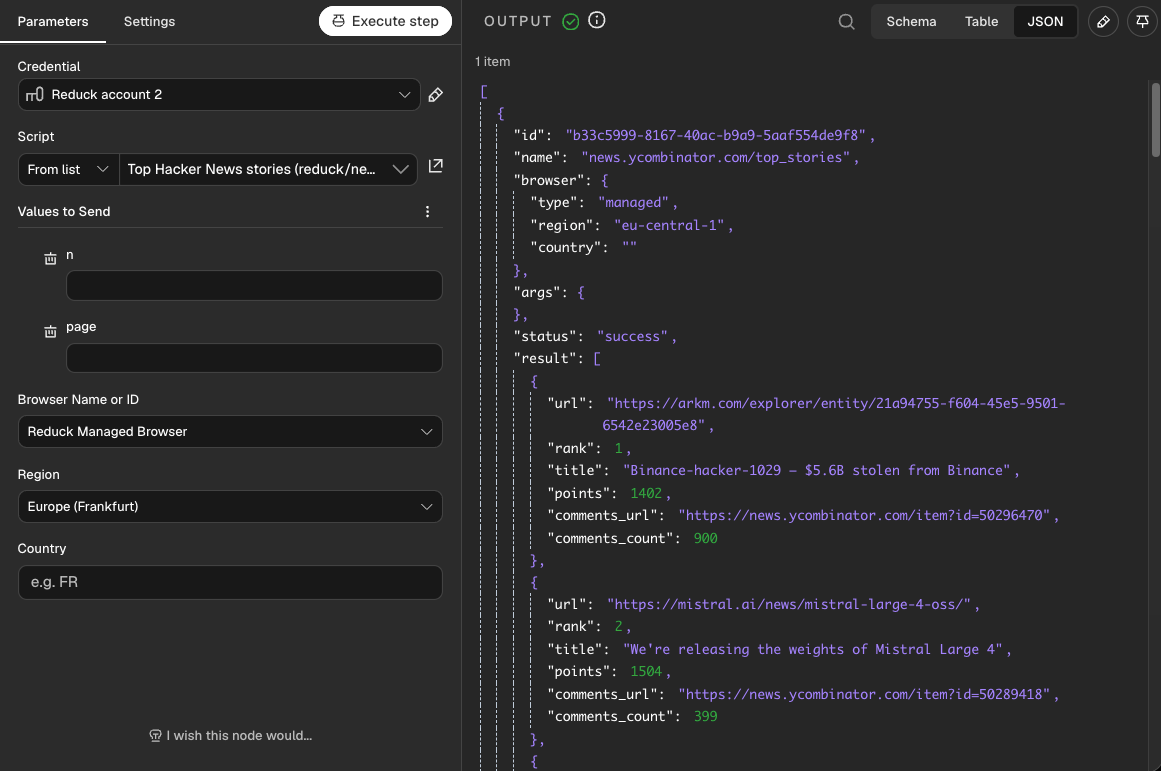
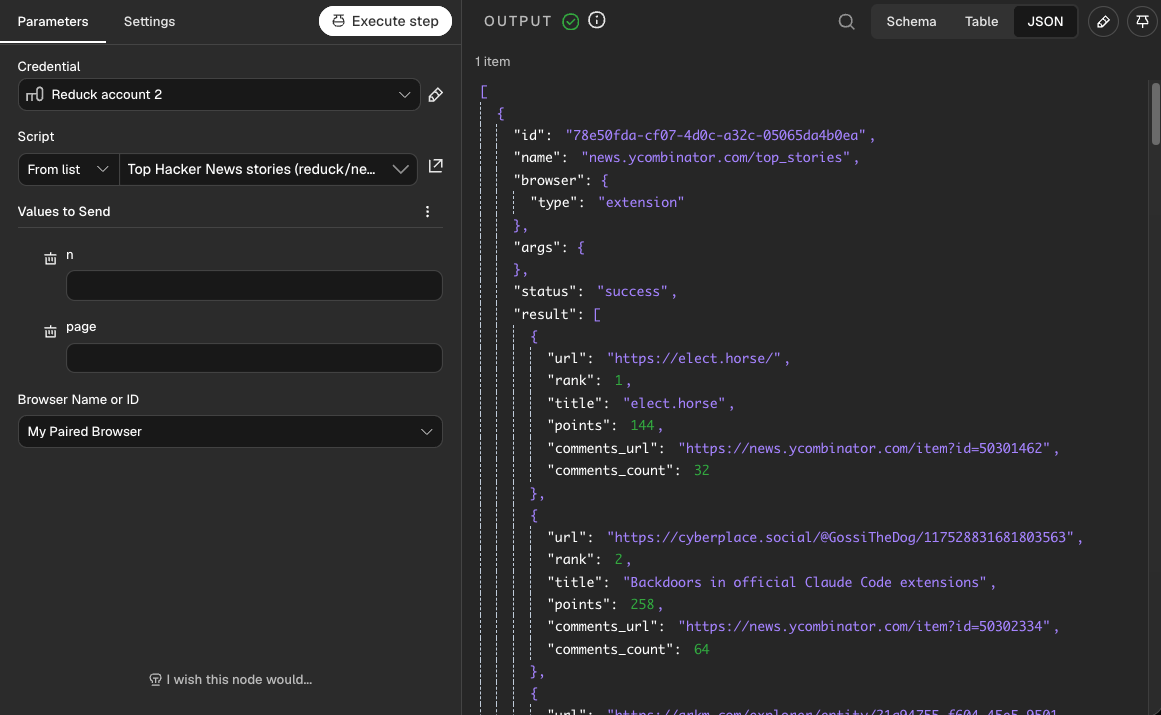
docs: the quick start runs on the paired browser, which the requirements now ask for

diff --git a/README.md b/README.md
@@ -5,22 +5,19 @@
   </picture>
 </p>
 
-# @reduck-ai/n8n-nodes-reduck
-
-The official [Reduck](https://reduck.ai) node for [n8n](https://n8n.io).
+# Official [Reduck](https://reduck.ai) node for [n8n](https://n8n.io).
 
 Reduck enables Agents to write, run and maintain browser automation scripts to automate sites with no API, such as LinkedIn, WhatsApp, Reddit, etc.
 
 With Reduck n8n node, users can run scripts from our library or custom writen ones to automate workflows such as:
-- ...
+- 
 
 ## Requirements
 
 - A [Reduck account](https://reduck.ai/#signin).
-- To run scripts on your own Chrome: the
-  [Reduck extension](https://chromewebstore.google.com/detail/reduck/koccidjchcojlmgkdhibpgjbnhcoopio),
-  paired with your account. See [pairing](https://docs.reduck.ai/#quick-start). The default,
-  a Reduck managed browser, needs nothing more.
+- The [Reduck extension](https://chromewebstore.google.com/detail/reduck/koccidjchcojlmgkdhibpgjbnhcoopio),
+  paired with your account (see [pairing](https://docs.reduck.ai/#quick-start)). Scripts run on
+  this browser by default. To run without it, set **Browser** to **Reduck Managed Browser**.
 
 ## Quick start
 
@@ -42,7 +39,8 @@ With Reduck n8n node, users can run scripts from our library or custom writen on
    [API keys](https://reduck.ai/api-keys), and select it in **Credential**.
 
 3. **Run a script.** In **Script**, search `hacker news` and select **Top Hacker News stories**.
-   Then select **Execute step**. `result` holds the stories:
+   Then select **Execute step**. The script runs on your paired browser, and `result` holds the
+   stories:
 
    ![The Reduck node after Execute step: the run succeeded, and result lists the stories](https://raw.githubusercontent.com/reduck-ai/n8n-nodes-reduck/main/images/quick-start-run.png)
 
@@ -55,6 +53,6 @@ Import a workflow from [examples](https://github.com/reduck-ai/n8n-nodes-reduck/
   every morning, asks ChatGPT your buyers' questions in the ChatGPT app and records whether the
   answer cites your site, names you, or cites others. The rows go to an n8n data table.
 
-  ## Features
+## Features
 
-  ## Building your own script and using it
+## Building your own script and using it
